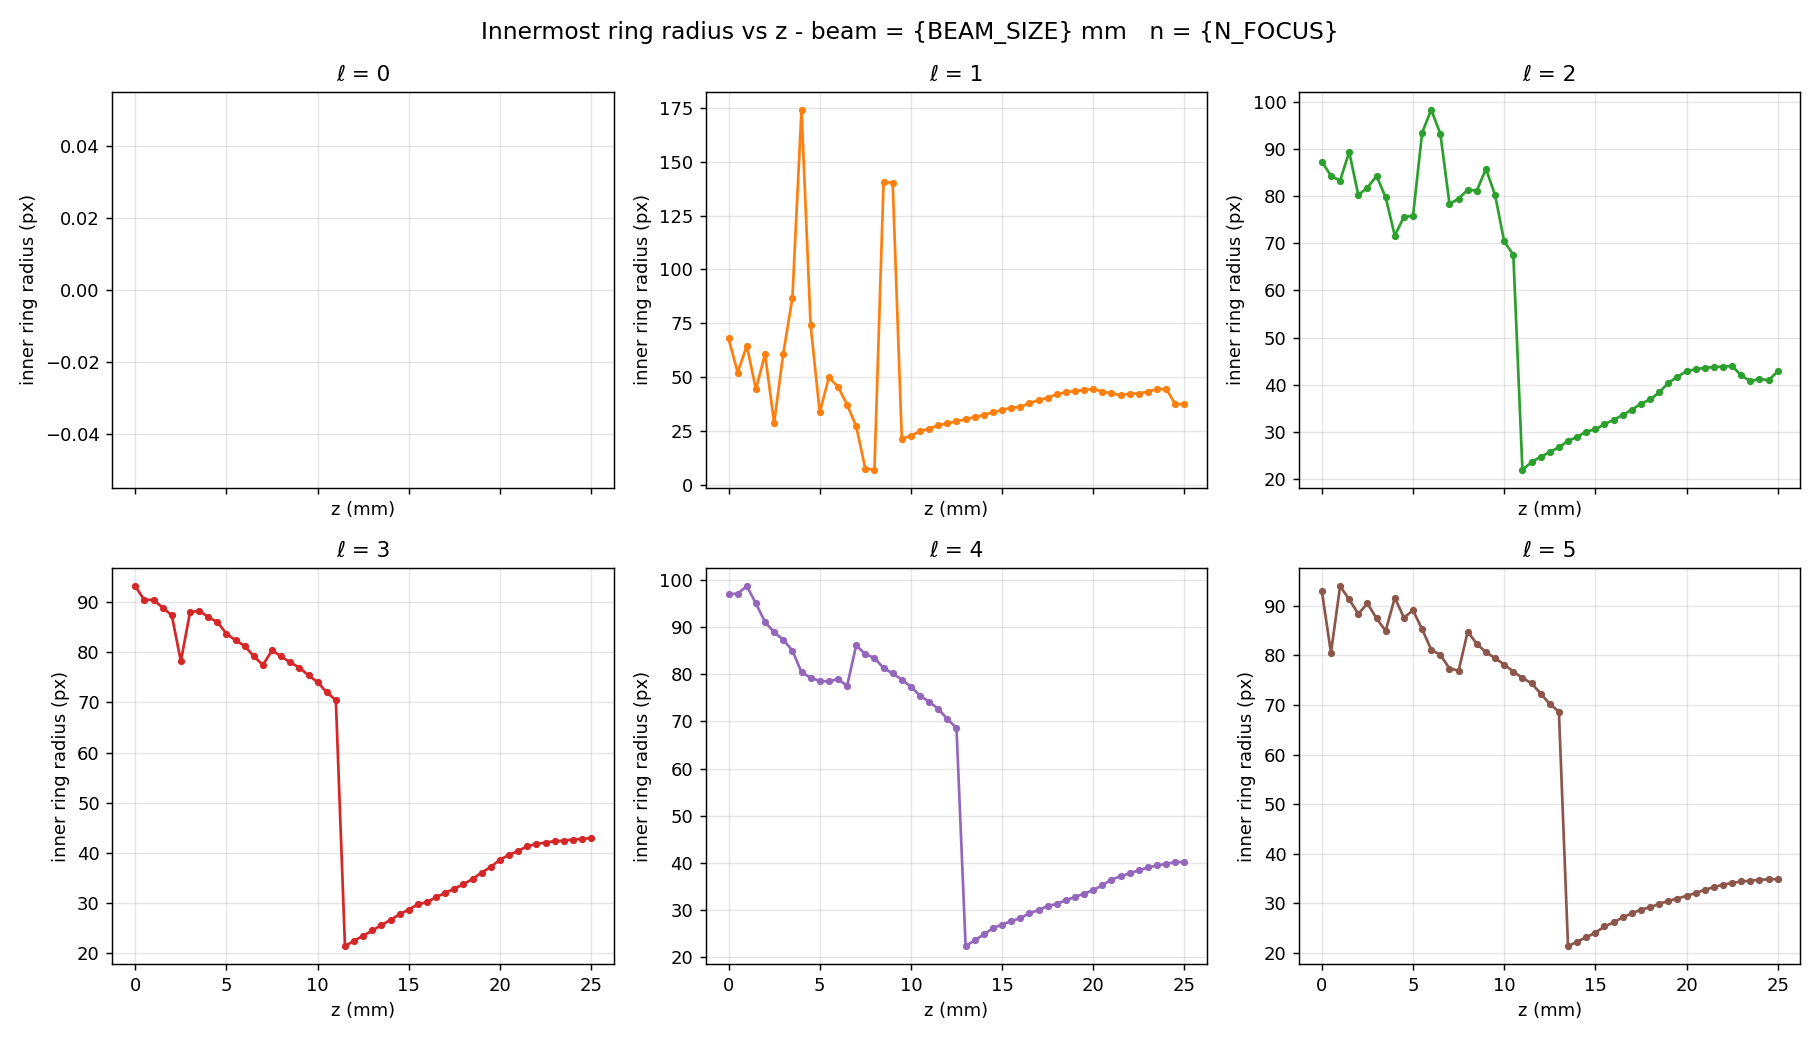
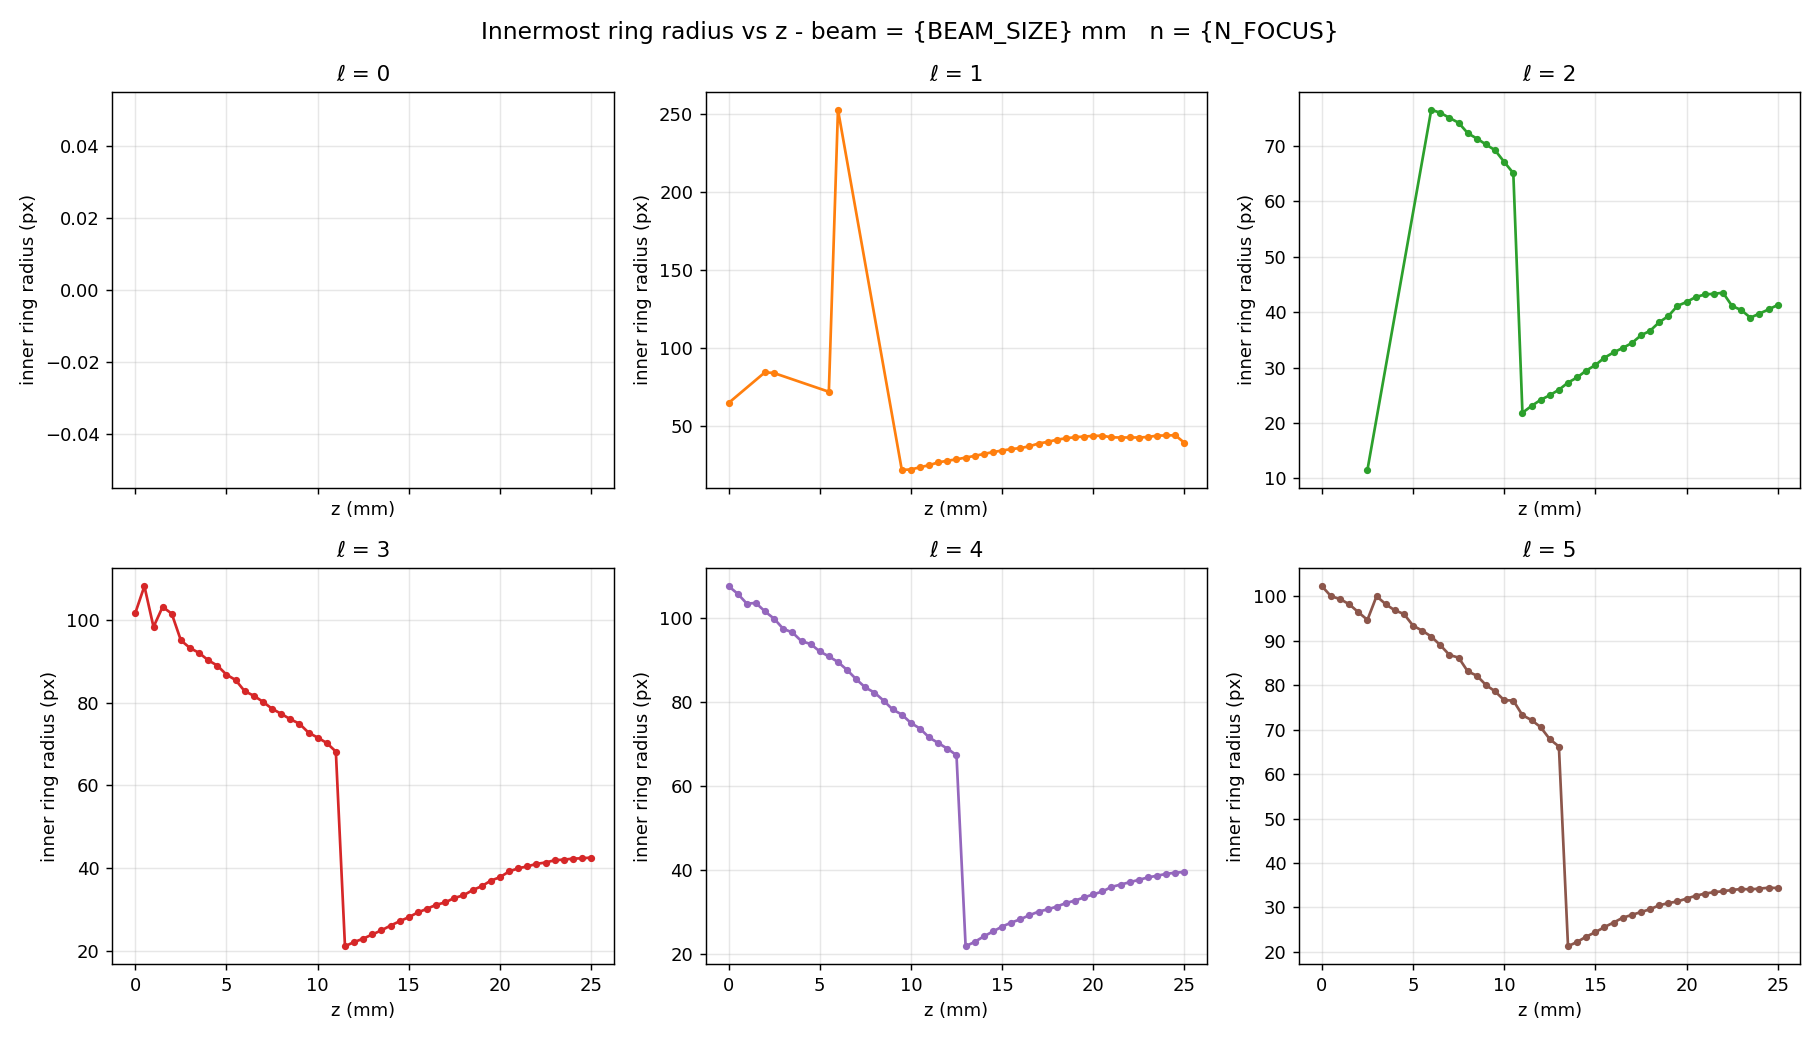
did more analysis

diff --git a/focusing_data.py b/focusing_data.py
@@ -40,7 +40,7 @@ def _(mo):
 
 @app.cell
 def _(Path, mo, np):
-    ROOT = Path("/Users/carriecrane/GitHub/Optimal_Focusing/data/focusing_images/29_n14")
+    ROOT = Path("/Users/carriecrane/GitHub/Optimal_Focusing/data/focusing_images/29_n14_pt2")
     z_vals = np.arange(0,25.5, 0.5)
 
     BEAM_SIZE = 29
@@ -313,7 +313,7 @@ def _(BEAM_SIZE, N_FOCUS, all_results, gaussian_filter, mo, np, plt, z_vals):
         F_filt = fftshift(fft2(img)) * lpf
         out    = np.real(ifft2(ifftshift(F_filt)))
         return np.clip(out, 0, None)
-    
+
     def plot_beam_grid(l_val, step=5, bg_scale=0.3):
         res      = all_results[l_val]
         indices  = list(range(0, len(res), step))
@@ -336,24 +336,24 @@ def _(BEAM_SIZE, N_FOCUS, all_results, gaussian_filter, mo, np, plt, z_vals):
         anchor_cy  = float(np.average(Y0[bright0], weights=blurred0[bright0]))
 
         half = 350
-    
+
+        # ---- CHANGE 1: compute global vmax across all frames before the loop ----
+        global_max = max(r["image"].astype(float).max() for r in res)
+        vmax = global_max * 0.95
+        # ------------------------------------------------------------------------
+
         for ax, idx in zip(axes, indices):
             r   = res[idx]
             img = r["image"].astype(float)
             bg  = np.median([img[:20,:20], img[:20,-20:],
                              img[-20:,:20], img[-20:,-20:]])
             img = np.clip(img - bg, 0, None)
-
-            # Subtract fixed pattern background
             img = fourier_clean(img, r_cut=100)
 
-            # Find center but constrain to within 100px of anchor
             blurred   = gaussian_filter(img, sigma=3)
             threshold = np.percentile(blurred, 95)
             bright    = blurred >= threshold
             Y, X      = np.mgrid[:img.shape[0], :img.shape[1]]
-
-            # Only use bright pixels within 150px of anchor
             dist_from_anchor = np.sqrt((X - anchor_cx)**2 + (Y - anchor_cy)**2)
             bright = bright & (dist_from_anchor < 150)
 
@@ -368,7 +368,6 @@ def _(BEAM_SIZE, N_FOCUS, all_results, gaussian_filter, mo, np, plt, z_vals):
             x1 = int(np.clip(cx - half, 0, nx - 2*half))
             crop = img[y1:y1+2*half, x1:x1+2*half]
 
-            # Soft central mask for 0th order
             crop_cx = cx - x1
             crop_cy = cy - y1
             Y_c, X_c = np.ogrid[:crop.shape[0], :crop.shape[1]]
@@ -378,14 +377,16 @@ def _(BEAM_SIZE, N_FOCUS, all_results, gaussian_filter, mo, np, plt, z_vals):
             soft_mask = 1 / (1 + np.exp(-(R_c - mask_r) / softness))
             crop = crop * soft_mask
 
-            vmax = np.percentile(img[img > 0], 99.5) if img.max() > 0 else 1
-            ax.imshow(crop, cmap='inferno', origin='upper', vmax=vmax)
+            # ---- CHANGE 2: use global vmax instead of per-frame ----
+            ax.imshow(crop, cmap='inferno', origin='upper', vmax=vmax, vmin=0)
+            # --------------------------------------------------------
+
             ax.set_title(f'z={z_vals[idx]:.1f}mm', fontsize=8)
             ax.axis('off')
 
         plt.suptitle(f'ℓ={l_val}  beam={BEAM_SIZE} n={N_FOCUS} — focusing sequence', y=1.02)
         plt.tight_layout()
-        plt.savefig(f"/Users/carriecrane/GitHub/Optimal_Focusing/analysis/29_14/beam_grid_l{l_val}.png", dpi=130)
+        plt.savefig(f"/Users/carriecrane/GitHub/Optimal_Focusing/analysis/29_n14_pt2/beam_grid_l{l_val}.png", dpi=130)
         plt.close()
         print(f"saved beam_grid_l{l_val}.png")
 
@@ -393,7 +394,6 @@ def _(BEAM_SIZE, N_FOCUS, all_results, gaussian_filter, mo, np, plt, z_vals):
         plot_beam_grid(l_val3, step=5, bg_scale=0.3)
 
     mo.callout(mo.md("Beam grids saved."), kind="success")
-
     return
 
 
